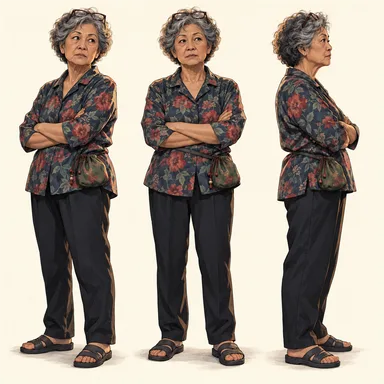
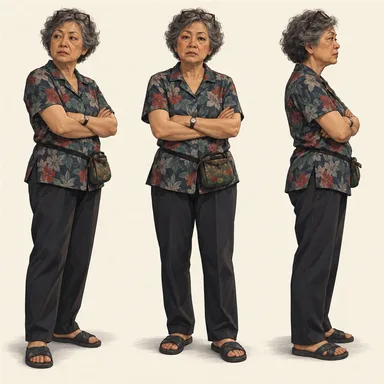
Classical readings in the relics now beat the modern dictionary
敕勒歌's last line was rendering fēng chuī cǎo dī jiàn niú yáng. 见 there is
xiàn - 通假 for 现 - and it is one of the best-known lost-mark traps in the whole
默写 list. The app was teaching it wrong on the screen whose job is to teach it
right.

No word-level lookup can fix this: 见牛羊 is not a word, and the modern
dictionary has no reason to know a classical usage. The poem data already
declared the reading; it simply was not being applied. pinyinOf now takes an
overrides map and the relics route passes each poem's own declarations in.

Also carries 重=zhòng (春夜喜雨), 教=jiào (出塞), 朝=cháo (满江红), 了=liǎo
(虞美人) and 曾参=zēng shēn (慈乌夜啼) - that last would otherwise read céng cān.

Two tests so it cannot come back: every declared override must appear in the
rendered line, and every declared override must be a reading the dictionary
actually recognises, so a typo cannot be taught as fact.

diff --git a/tests/content.test.ts b/tests/content.test.ts
@@ -8,7 +8,7 @@ import { SAMPLE_LESSONS } from '@/content/sample-lessons';
 import { LANGUAGE_KNOWLEDGE_ITEMS, PASSAGES, READ_ALOUD_LINES } from '@/content/baseline-items';
 import { validateScript, chapterText } from '@/lib/story/types';
 import { gateChapter, targetChars, nameChars } from '@/lib/story/engine';
-import { CHARS, splitCoverage, isHanzi, isPolyphonic, readingsOf } from '@/lib/lexicon';
+import { CHARS, splitCoverage, isHanzi, isPolyphonic, readingsOf, pinyinOf } from '@/lib/lexicon';
 import { VOICES } from '@/lib/providers/tts';
 import { publicItem, resolveOption } from '@/lib/items/public';
 
@@ -146,6 +146,45 @@ describe('the 14 古诗文 relics', () => {
     expect(jian!.reading).toBe('xiàn');
     expect(isPolyphonic('见')).toBe(true);
     expect(readingsOf('见').join(' ')).toContain('xiàn');
+  });
+
+  it('renders the declared classical reading, not the modern dictionary one', () => {
+    // 风吹草低见牛羊: 见 is xiàn here (通假 for 现), not jiàn. No word-level lookup
+    // can find this - 见牛羊 is not a word - so the poem declares it and pinyinOf
+    // must honour the declaration. Getting this wrong teaches the single
+    // most-failed character of the 默写 list incorrectly.
+    for (const p of POEMS) {
+      if (!p.polyphonic.length) continue;
+      const overrides = Object.fromEntries(p.polyphonic.map((x) => [x.char, x.reading]));
+      for (const line of p.lines) {
+        if (![...line.zh].some((c) => overrides[c])) continue;
+        const withOverride = pinyinOf(line.zh, overrides);
+        for (const [char, reading] of Object.entries(overrides)) {
+          if (!line.zh.includes(char)) continue;
+          expect({ poem: p.id, char, has: withOverride.includes(reading) }).toEqual({
+            poem: p.id,
+            char,
+            has: true,
+          });
+        }
+      }
+    }
+  });
+
+  it('declares only classical readings the dictionary actually recognises', () => {
+    // A declared override that is not a real reading of the character would be a
+    // typo silently taught as fact.
+    for (const p of POEMS) {
+      for (const { char, reading } of p.polyphonic) {
+        const known = readingsOf(char);
+        expect({ poem: p.id, char, reading, known: known.includes(reading) }).toEqual({
+          poem: p.id,
+          char,
+          reading,
+          known: true,
+        });
+      }
+    }
   });
 
   it('gives every poem line an English gloss and every note a translation', () => {

diff --git a/src/lib/lexicon.ts b/src/lib/lexicon.ts
@@ -197,13 +197,20 @@ export function validatePinyin(
  * Pinyin for a whole run of text, resolved word by word against the lexicon.
  *
  * Punctuation is dropped rather than transliterated, so the result lines up
- * syllable-for-character with the 汉字 in the input - which is what the
- * karaoke highlighter and the relic line display both need.
+ * syllable-for-character with the 汉字 in the input - which is what the karaoke
+ * highlighter and the relic line display both need.
+ *
+ * `overrides` exists for classical readings the modern dictionary cannot know.
+ * 见 in 风吹草低见牛羊 is xiàn, not jiàn - it is 通假 for 现 - and no amount of
+ * word-level lookup will find that, because 见牛羊 is not a word. The poems
+ * declare these in their `polyphonic` field, and this is where that declaration
+ * is applied. Without it the app renders a wrong reading on the single most
+ * commonly-failed character of the 默写 list.
  */
-export function pinyinOf(text: string): string {
+export function pinyinOf(text: string, overrides: Record<string, string> = {}): string {
   return segmentReadings(text)
     .filter((s) => s.reading)
-    .map((s) => s.reading)
+    .map((s) => overrides[s.char] ?? s.reading)
     .join(' ');
 }
 

diff --git a/src/app/api/relics/route.ts b/src/app/api/relics/route.ts
@@ -26,7 +26,11 @@ export async function GET() {
         gist: p.gist,
         hook: p.hook,
         artId: p.artId,
-        lines: p.lines.map((l) => ({ ...l, pinyin: pinyinOf(l.zh) })),
+        // Classical readings declared on the poem beat the modern dictionary.
+        lines: p.lines.map((l) => ({
+          ...l,
+          pinyin: pinyinOf(l.zh, Object.fromEntries(p.polyphonic.map((x) => [x.char, x.reading]))),
+        })),
         notes: p.notes,
         polyphonic: p.polyphonic,
         charCount: [...poemText(p)].filter((c) => /[一-鿿]/u.test(c)).length,

diff --git a/docs/decisions.md b/docs/decisions.md
@@ -309,6 +309,42 @@ that escapes it.
 input, and a child's audio directory is not where you want to find out you were
 wrong about that.
 
+## D-026 · Declared classical readings beat the dictionary
+
+**Decision.** `pinyinOf(text, overrides)` takes a character→reading map, and the
+relics route passes each poem's own `polyphonic` declarations into it.
+
+**Why.** Caught by looking at the rendered page. 敕勒歌's last line rendered
+`fēng chuī cǎo dī jiàn niú yáng` — but 见 there is **xiàn**, 通假 for 现. No
+amount of word-level lookup finds that, because 见牛羊 is not a word, and the
+modern dictionary has no reason to know the classical usage. The poem data
+already declared it (`polyphonic: [{char: '见', reading: 'xiàn'}]`); the
+declaration simply was not being applied.
+
+This mattered more than a normal bug: 见 in 敕勒歌 is one of the best-known
+lost-mark traps in the whole 默写 list, and the app was teaching it wrong on the
+relic screen whose entire job is to teach it right.
+
+**Now covered by two tests:** every declared override must appear in the
+rendered line, and every declared override must be a reading the dictionary
+actually recognises — so a typo cannot be silently taught as fact.
+
+Same fix now carries 重=zhòng (春夜喜雨), 教=jiào (出塞), 朝=cháo (满江红),
+了=liǎo (虞美人) and 曾参=zēng shēn (慈乌夜啼), which would otherwise default to
+céng cān.
+
+## D-027 · Arcade items carry an explicit `subject`
+
+**Decision.** The arcade's public items include `subject` — the word or
+character being asked about — and marking rebuilds the item from that.
+
+**Why.** Two bugs, both found by running a round. Rounds deduped on
+`payload.stem`, but every tone-discrimination item shares the stem
+「这个词的声调是什么？」, so a 12-question round silently came back with 3.
+And marking looked the item up by that same generic stem, so tone questions were
+unmarkable. The subject is what identifies the question; the stem is only what it
+says.
+
 ---
 
 ## Open decisions, deferred
